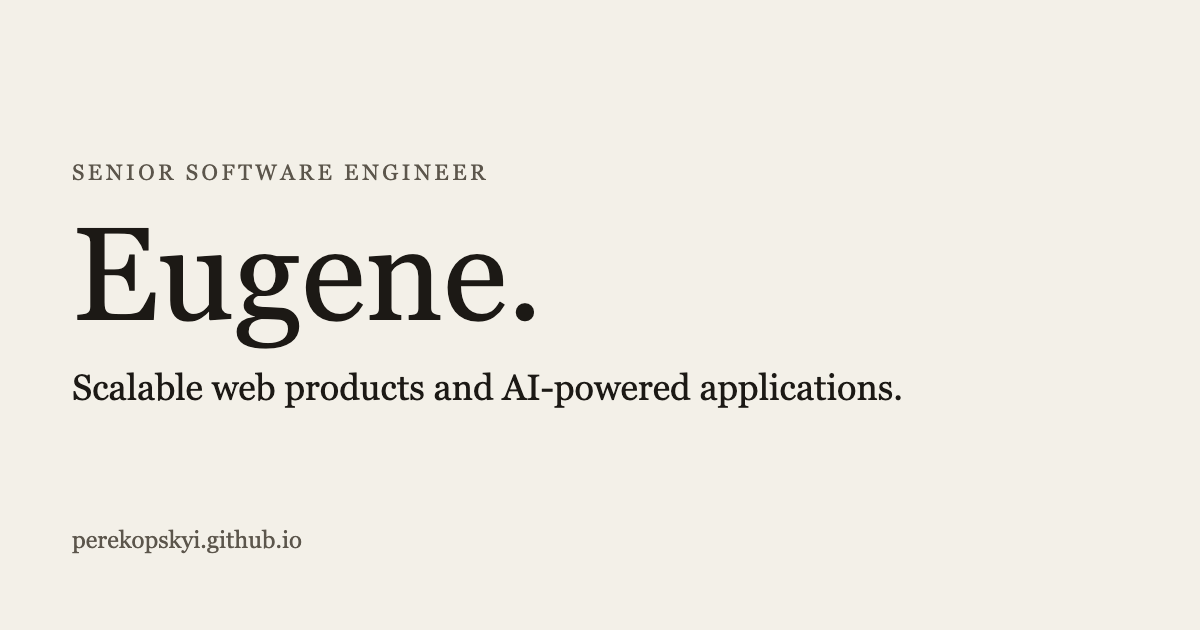
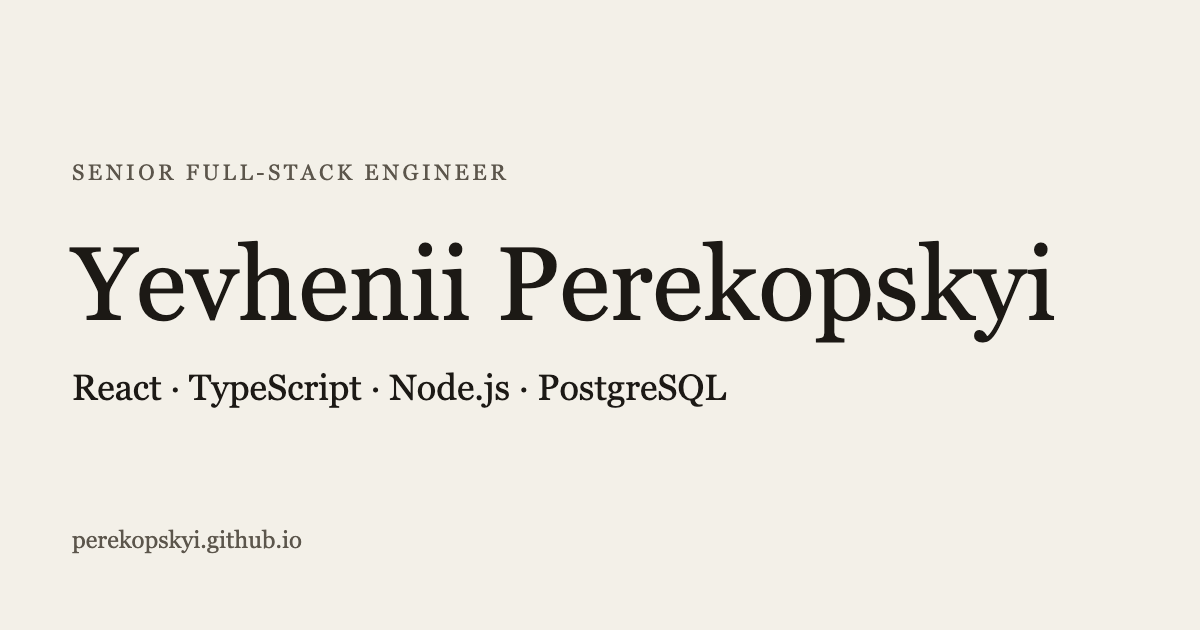
feat: sharpen senior full-stack positioning
- Use the full name (Yevhenii Perekopskyi) in the title, H1, header, OG, and JSON-LD
- Retitle the role to Senior Full-stack Engineer
- Rewrite the hero around concrete, already-stated facts
- Split shipped work from concepts; concepts move to a compact Exploring block
- Fill index.html meta tags from src/data/site.ts at build time so they cannot drift
- Add a 'Source of this site' link to the footer
- Regenerate og.png; fix trailing-space typos

Changed region(s): [[0.0617, 0.3619, 0.8942, 0.6635], [0.1542, 0.2413, 0.4317, 0.3016]]

diff --git a/src/components/sections/Projects.tsx b/src/components/sections/Projects.tsx
@@ -1,12 +1,20 @@
 import { projects } from "../../data/projects.ts";
+import type { Project, ProjectStatus } from "../../types/content.ts";
 import { PageContainer } from "../layout/PageContainer.tsx";
 import { ProjectCard } from "../ui/ProjectCard.tsx";
+import { Reveal } from "../ui/Reveal.tsx";
 import { SectionHeading } from "../ui/SectionHeading.tsx";
 
+const shippedStatuses: ReadonlySet<ProjectStatus> = new Set(["live", "mvp", "confidential"]);
+
+function isVisible(project: Project): boolean {
+  return project.published && project.name.trim() !== "" && project.summary.trim() !== "";
+}
+
 export function Projects() {
-  const visible = projects.filter(
-    (project) => project.published && project.name.trim() !== "" && project.summary.trim() !== "",
-  );
+  const visible = projects.filter(isVisible);
+  const shipped = visible.filter((project) => shippedStatuses.has(project.status));
+  const exploring = visible.filter((project) => !shippedStatuses.has(project.status));
 
   return (
     <section id="work" className="border-t border-line py-20 md:py-28">
@@ -14,14 +22,61 @@ export function Projects() {
         <SectionHeading
           index="02"
           title="Selected work"
-          lede="One product in production, an MVP for a garden society, and two studies that are not products yet. Commercial work stays unpublished until it can be described without breaking confidentiality."
+          lede="Products that real people use. Commercial work stays unpublished until it can be described without breaking confidentiality."
         />
         <div>
-          {visible.map((project, index) => (
+          {shipped.map((project, index) => (
             <ProjectCard key={project.id} project={project} index={index + 1} reversed={index % 2 === 1} />
           ))}
         </div>
+        {exploring.length > 0 ? (
+          <div className="mt-8 border-t border-line pt-12 md:pt-16" aria-labelledby="exploring-heading">
+            <h3
+              id="exploring-heading"
+              className="font-serif text-2xl font-[520] tracking-tight text-ink md:text-3xl"
+            >
+              Exploring
+            </h3>
+            <p className="mt-3 max-w-2xl text-pretty leading-relaxed text-muted">
+              Ideas I am working through. These are not finished products.
+            </p>
+            <ul className="mt-10 grid gap-x-16 gap-y-10 md:grid-cols-2">
+              {exploring.map((project, index) => (
+                <li key={project.id}>
+                  <Reveal className="border-t border-line pt-4" delay={(index % 2) * 0.08}>
+                    <ExploringItem project={project} />
+                  </Reveal>
+                </li>
+              ))}
+            </ul>
+          </div>
+        ) : null}
       </PageContainer>
     </section>
+  );
+}
+
+function ExploringItem({ project }: { project: Project }) {
+  return (
+    <article>
+      <p className="text-xs tracking-[0.16em] text-muted uppercase">
+        {project.statusLabel}
+        <span aria-hidden="true"> · </span>
+        {project.category}
+      </p>
+      <h4 className="mt-2 font-serif text-xl font-[520] tracking-tight text-ink">{project.name}</h4>
+      <p className="mt-2 text-sm leading-relaxed text-ink">{project.summary}</p>
+      {project.githubUrl ? (
+        <a
+          href={project.githubUrl}
+          target="_blank"
+          rel="noreferrer noopener"
+          className="mt-2 inline-flex min-h-11 items-center text-sm text-ink underline decoration-line underline-offset-4 hover:decoration-ink"
+        >
+          Source
+          <span className="sr-only"> (opens in a new tab)</span>
+        </a>
+      ) : null}
+    </article>
   );
 }

diff --git a/index.html b/index.html
@@ -4,58 +4,41 @@
     <meta charset="UTF-8" />
     <meta name="viewport" content="width=device-width, initial-scale=1.0" />
     <meta name="color-scheme" content="light" />
-    <title>Eugene — Senior Software Engineer</title>
+    <title>%SITE_TITLE%</title>
     <meta
       name="description"
-      content="Senior Software Engineer building scalable web products and AI-powered applications. 8+ years of experience."
+      content="%SITE_DESCRIPTION%"
     />
     <link rel="canonical" href="https://perekopskyi.github.io/" />
     <meta name="theme-color" content="#f3f0e8" />
     <link rel="icon" href="/favicon.svg" type="image/svg+xml" />
     <meta property="og:type" content="website" />
     <meta property="og:locale" content="en_US" />
-    <meta property="og:site_name" content="Eugene" />
-    <meta property="og:title" content="Eugene — Senior Software Engineer" />
+    <meta property="og:site_name" content="%SITE_FULL_NAME%" />
+    <meta property="og:title" content="%SITE_TITLE%" />
     <meta
       property="og:description"
-      content="Senior Software Engineer building scalable web products and AI-powered applications. 8+ years of experience."
+      content="%SITE_DESCRIPTION%"
     />
     <meta property="og:url" content="https://perekopskyi.github.io/" />
     <meta property="og:image" content="https://perekopskyi.github.io/og.png" />
     <meta property="og:image:width" content="1200" />
     <meta property="og:image:height" content="630" />
-    <meta property="og:image:alt" content="Eugene, Senior Software Engineer" />
+    <meta property="og:image:alt" content="%SITE_FULL_NAME%, %SITE_ROLE%" />
     <meta name="twitter:card" content="summary_large_image" />
-    <meta name="twitter:title" content="Eugene — Senior Software Engineer" />
+    <meta name="twitter:title" content="%SITE_TITLE%" />
     <meta
       name="twitter:description"
-      content="Senior Software Engineer building scalable web products and AI-powered applications. 8+ years of experience."
+      content="%SITE_DESCRIPTION%"
     />
     <meta name="twitter:image" content="https://perekopskyi.github.io/og.png" />
-    <meta name="twitter:image:alt" content="Eugene, Senior Software Engineer" />
-    <script type="application/ld+json">
-      {
-        "@context": "https://schema.org",
-        "@type": "ProfilePage",
-        "mainEntity": {
-          "@type": "Person",
-          "name": "Eugene",
-          "jobTitle": "Senior Software Engineer",
-          "email": "yevheniiperekopskyi@gmail.com",
-          "url": "https://perekopskyi.github.io/",
-          "sameAs": [
-            "https://github.com/perekopskyi",
-            "https://www.linkedin.com/in/yevhenii-perekopskyi",
-            "https://t.me/i_am_yevhen"
-          ]
-        }
-      }
-    </script>
+    <meta name="twitter:image:alt" content="%SITE_FULL_NAME%, %SITE_ROLE%" />
+    <script type="application/ld+json">%SITE_JSON_LD%</script>
   </head>
   <body>
     <div id="root"></div>
     <noscript>
-      <p>Eugene — Senior Software Engineer. This page needs JavaScript to render the portfolio.</p>
+      <p>%SITE_TITLE%. This page needs JavaScript to render the portfolio.</p>
     </noscript>
     <script type="module" src="/src/main.tsx"></script>
   </body>

diff --git a/vite.config.ts b/vite.config.ts
@@ -1,9 +1,60 @@
 import tailwindcss from "@tailwindcss/vite";
 import react from "@vitejs/plugin-react";
-import { defineConfig } from "vite";
+import { defineConfig, type Plugin } from "vite";
+import { site } from "./src/data/site.ts";
+
+function escapeHtml(value: string): string {
+  return value
+    .replaceAll("&", "&amp;")
+    .replaceAll('"', "&quot;")
+    .replaceAll("<", "&lt;")
+    .replaceAll(">", "&gt;");
+}
+
+/**
+ * Fills %SITE_*% placeholders in index.html from src/data/site.ts so the
+ * name, role, and description in meta tags never drift from the page.
+ */
+function siteMeta(): Plugin {
+  const jsonLd = {
+    "@context": "https://schema.org",
+    "@type": "ProfilePage",
+    mainEntity: {
+      "@type": "Person",
+      name: site.fullName,
+      alternateName: site.name,
+      jobTitle: site.role,
+      ...(site.email ? { email: site.email } : {}),
+      url: site.url,
+      sameAs: [site.github, site.linkedin, site.telegram].filter(Boolean),
+    },
+  };
+
+  const values: Record<string, string> = {
+    SITE_TITLE: escapeHtml(site.title),
+    SITE_DESCRIPTION: escapeHtml(site.description),
+    SITE_FULL_NAME: escapeHtml(site.fullName),
+    SITE_ROLE: escapeHtml(site.role),
+    // "<" is escaped so the JSON can never close the script element.
+    SITE_JSON_LD: JSON.stringify(jsonLd).replaceAll("<", "\\u003c"),
+  };
+
+  return {
+    name: "site-meta",
+    transformIndexHtml(html) {
+      return html.replace(/%(SITE_[A-Z_]+)%/g, (match, key: string) => {
+        const value = values[key];
+        if (value === undefined) {
+          throw new Error(`Unknown placeholder ${match} in index.html`);
+        }
+        return value;
+      });
+    },
+  };
+}
 
 // perekopskyi.github.io is a user site, served at the domain root.
 export default defineConfig({
   base: "/",
-  plugins: [react(), tailwindcss()],
+  plugins: [siteMeta(), react(), tailwindcss()],
 });

diff --git a/src/components/sections/Hero.tsx b/src/components/sections/Hero.tsx
@@ -23,19 +23,20 @@ export function Hero() {
             ) : null}
           </div>
         </Reveal>
-        <h1 className="mt-8 font-serif text-[clamp(3.15rem,8.5vw,7.25rem)] leading-[0.9] font-[520] tracking-[-0.045em] text-ink">
-          Hi, I'm {site.name}.
+        <h1 className="mt-8 font-serif text-[clamp(3rem,8vw,6.75rem)] leading-[0.92] font-[520] tracking-[-0.045em] text-balance text-ink">
+          {site.fullName}
         </h1>
         <Reveal delay={0.08}>
           <p className="mt-8 max-w-2xl font-serif text-[clamp(1.5rem,2.4vw,2rem)] leading-snug font-[520] tracking-[-0.02em] text-balance text-ink">
-            Senior Software Engineer building scalable web products and AI-powered applications.
+            {site.role}. React and TypeScript on the front, Node.js and PostgreSQL behind it.
           </p>
         </Reveal>
         <Reveal delay={0.16}>
           <p className="mt-6 max-w-xl text-pretty leading-relaxed text-muted">
-            With 8+ years of experience, I build reliable, scalable, and user-focused software
-            products. I combine strong engineering fundamentals with modern AI-powered development
-            workflows.
+            Most recently I built a tournament platform from scratch in about two months. It now
+            serves 10,000+ users, and adding a new sport no longer means a new application. AI
+            coding agents are part of how I deliver; the architecture, the review, and what is safe
+            to ship stay with me.
           </p>
         </Reveal>
         <Reveal delay={0.24}>

diff --git a/src/data/projects.ts b/src/data/projects.ts
@@ -8,7 +8,7 @@ import type { Project } from "../types/content.ts";
 export const projects: Project[] = [
   {
     id: "sport-bracket-builder",
-    name: "Tournament Bracket Builder ",
+    name: "Tournament Bracket Builder",
     summary:
       "A tournament management application built from scratch in about two months using AI-assisted development tools. The product is a reusable tournament architecture, so standing up another sport does not mean starting over.",
     category: "Product",
@@ -30,10 +30,23 @@ export const projects: Project[] = [
     summary:
       "An MVP of the management panel for a garden society. Members can register, and the board keeps plots, electricity readings, community projects, and meetings in one place.",
     category: "Product",
-    technologies: ["React", "Tailwind CSS", "Shadcn UI", "TypeScript", "Node.js", "Fastify", "PostgreSQL", "Drizzle ORM", "Redis", "MongoDB", "Vercel", "Railway"],
+    technologies: [
+      "React",
+      "TypeScript",
+      "Tailwind CSS",
+      "shadcn/ui",
+      "Node.js",
+      "Fastify",
+      "PostgreSQL",
+      "Drizzle ORM",
+      "Redis",
+      "MongoDB",
+      "Vercel",
+      "Railway",
+    ],
     achievements: [
       "Member registration.",
-      "Plot records.", 
+      "Plot records.",
       "Electricity readings.",
       "Community projects.",
       "Meetings.",

diff --git a/src/data/site.ts b/src/data/site.ts
@@ -7,10 +7,11 @@ import type { Site } from "../types/content.ts";
  */
 export const site: Site = {
   name: "Eugene",
-  role: "Senior Software Engineer",
-  title: "Eugene — Senior Software Engineer",
+  fullName: "Yevhenii Perekopskyi",
+  role: "Senior Full-stack Engineer",
+  title: "Yevhenii Perekopskyi — Senior Full-stack Engineer",
   description:
-    "Senior Software Engineer building scalable web products and AI-powered applications. 8+ years of experience.",
+    "Senior Full-stack Engineer. React and TypeScript on the front, Node.js and PostgreSQL behind it. 8+ years shipping web products.",
   location: "Ukraine",
   yearsLabel: "8+ years",
   availability: "Available",
@@ -18,5 +19,6 @@ export const site: Site = {
   linkedin: "https://www.linkedin.com/in/yevhenii-perekopskyi",
   telegram: "https://t.me/i_am_yevhen",
   github: "https://github.com/perekopskyi",
+  sourceUrl: "https://github.com/perekopskyi/perekopskyi.github.io",
   url: "https://perekopskyi.github.io/",
 };

diff --git a/src/components/layout/Footer.tsx b/src/components/layout/Footer.tsx
@@ -8,9 +8,18 @@ export function Footer() {
     <footer className="border-t border-line">
       <PageContainer className="flex flex-col gap-2 py-8 text-sm text-muted sm:flex-row sm:items-center sm:justify-between">
         <p>
-          {site.name} · {site.role}
+          {site.fullName} · {site.role}
         </p>
-        <p>
+        <p className="flex items-center gap-4">
+          <a
+            href={site.sourceUrl}
+            target="_blank"
+            rel="noreferrer noopener"
+            className="inline-flex min-h-11 items-center underline decoration-line underline-offset-4 hover:decoration-ink"
+          >
+            Source of this site
+            <span className="sr-only"> (opens in a new tab)</span>
+          </a>
           <time dateTime={String(year)}>{year}</time>
         </p>
       </PageContainer>

diff --git a/src/components/sections/About.tsx b/src/components/sections/About.tsx
@@ -23,7 +23,7 @@ export function About() {
               client.
             </p>
             <p>
-              I also use AI coding tools as part of the job. Tournament Bracket Builder  is the clearest
+              I also use AI coding tools as part of the job. Tournament Bracket Builder is the clearest
               example: a tournament product built from scratch in about two months, with a reusable
               architecture so a new sport does not require a new application. The tools shorten the
               build. The product shape, the review, and what is safe to ship stay with me.

diff --git a/src/types/content.ts b/src/types/content.ts
@@ -36,7 +36,10 @@ export interface Role {
 }
 
 export interface Site {
+  /** Short name used in conversational copy ("Hi, I'm …"). */
   name: string;
+  /** Legal / LinkedIn name. Used in the title, H1, and structured data. */
+  fullName: string;
   role: string;
   title: string;
   description: string;
@@ -47,5 +50,7 @@ export interface Site {
   linkedin: string | null;
   telegram: string | null;
   github: string;
+  /** Repository that holds this site's source. */
+  sourceUrl: string;
   url: string;
 }

diff --git a/src/components/layout/Header.tsx b/src/components/layout/Header.tsx
@@ -42,7 +42,7 @@ export function Header() {
       <div className="mx-auto flex h-16 w-full max-w-[1120px] items-center justify-between px-6 md:px-10">
         <div className="flex items-baseline gap-4">
           <a href="#top" className="font-serif text-xl tracking-tight text-ink">
-            {site.name}
+            {site.fullName}
           </a>
           <p className="hidden text-xs tracking-[0.14em] text-muted uppercase lg:block">
             {site.role}
